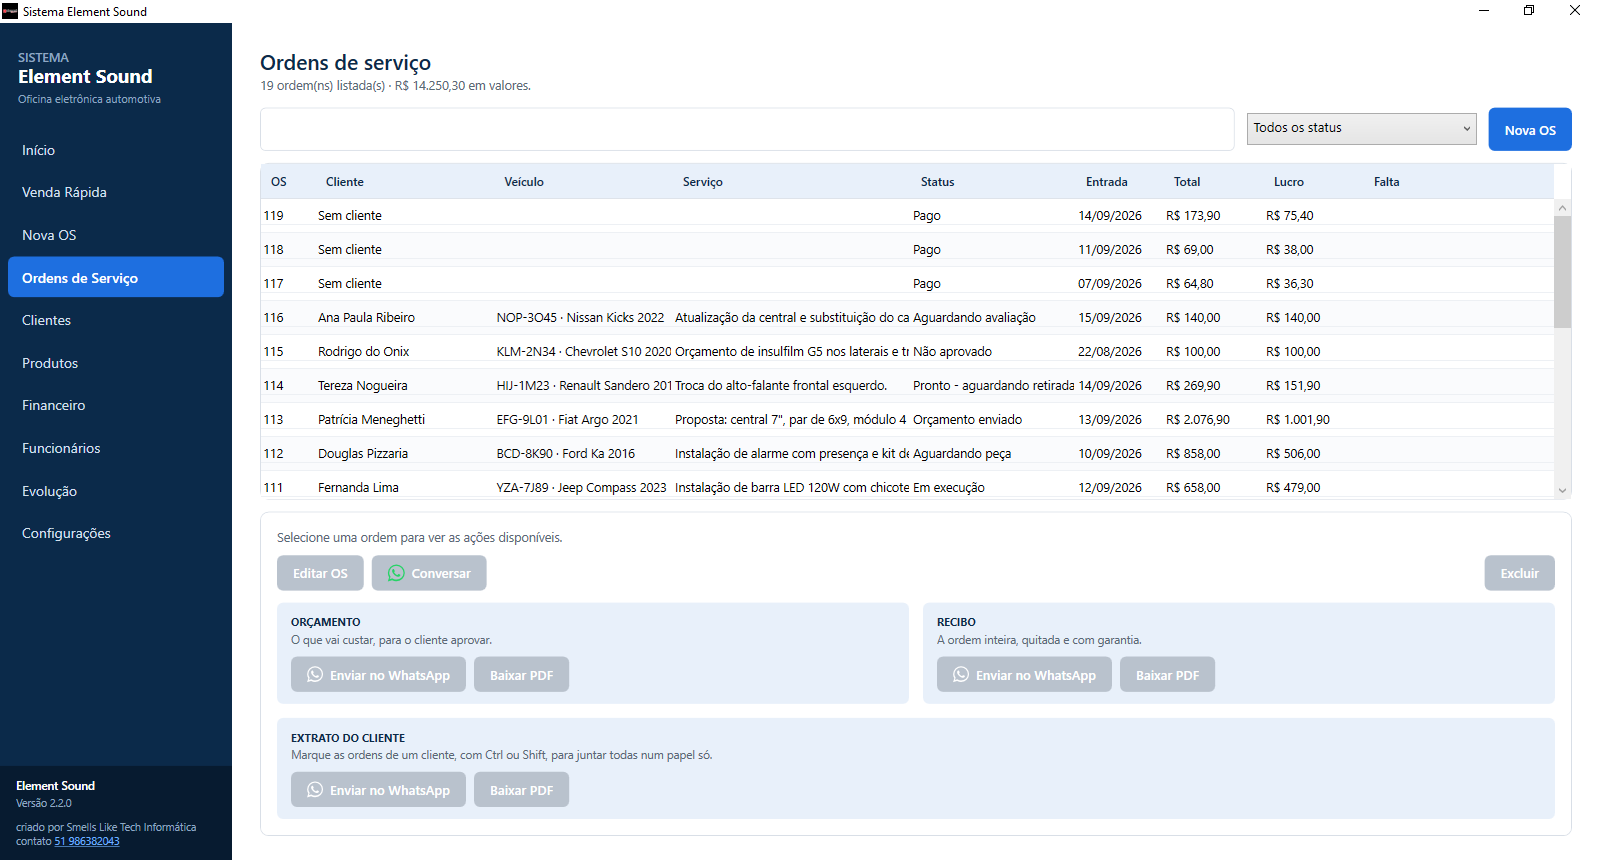
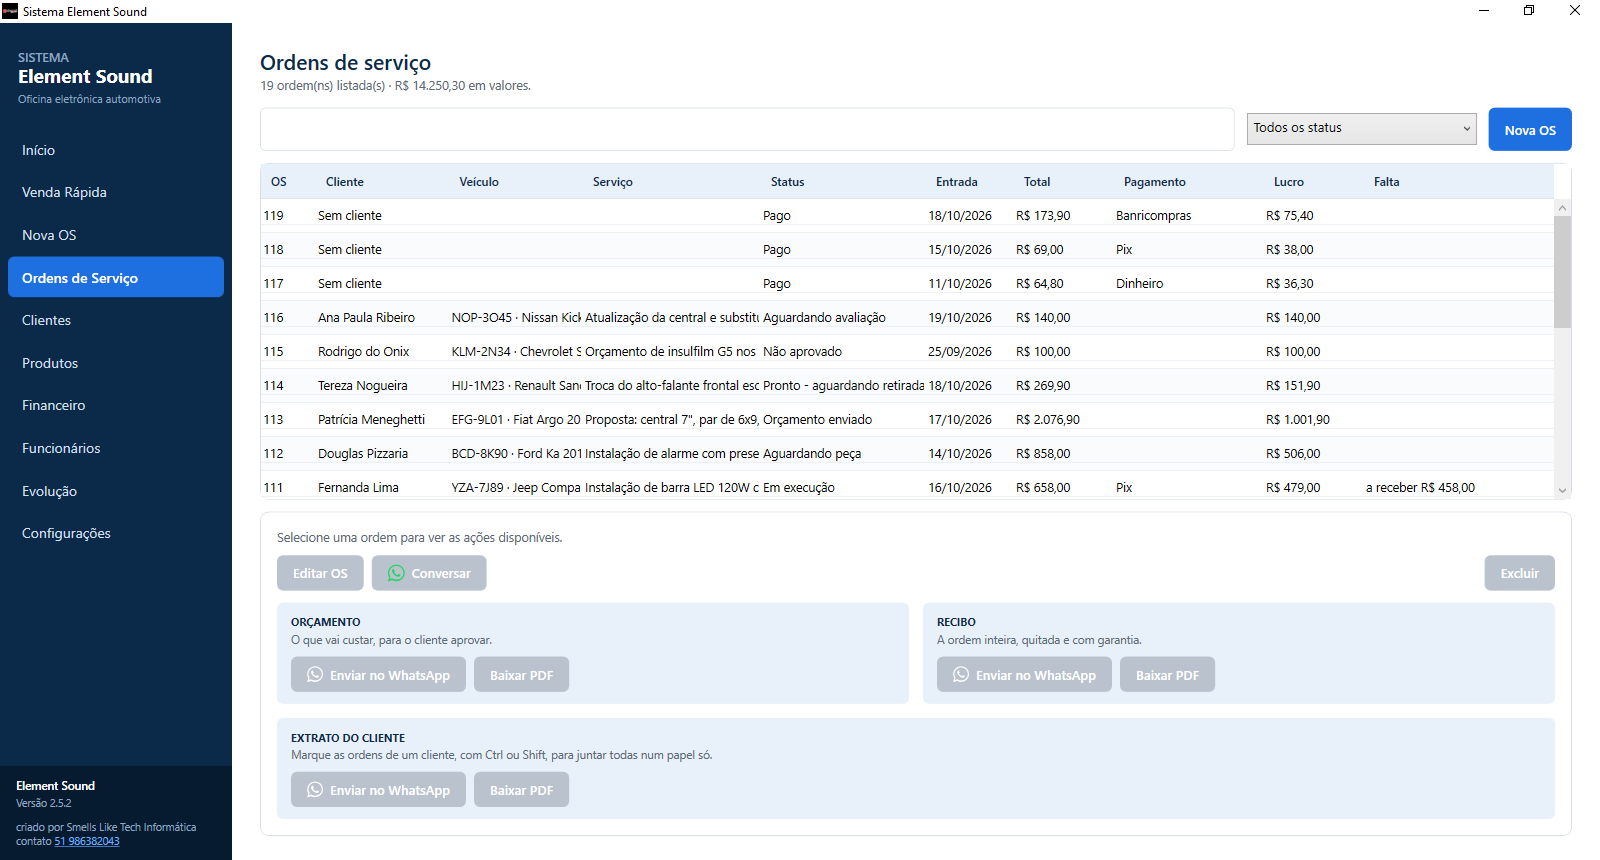
Mostra a parceria com a Vero e o pagamento em partes, com telas novas
A Smells Like Tech Informática é parceira da Vero, a maquininha da Banrisul
Pagamentos, e a integração do Sistema Element Sound pelo Vero Cliente PDV foi
homologada. A página ganha o selo da parceria no topo e uma seção própria: as
formas de pagamento aceitas, o que acontece na cobrança, no comprovante e no
estorno, e a janela de cobrança.

Entram também o pagamento em partes — o sinal, o saldo, a OS que vira paga
sozinha —, o financeiro contado no dia em que o dinheiro entrou, a tela da
maquininha em Configurações e duas decisões novas de projeto: o pagamento que
sobrevive ao programa fechar, e só contar o que a maquininha confirmou.

Todas as telas foram capturadas de novo, da versão 2.5.2, com a oficina de
demonstração: nomes, placas, telefones, CNPJ e comprovantes são fictícios.

diff --git a/index.html b/index.html
@@ -4,12 +4,12 @@
 <meta charset="utf-8">
 <meta name="viewport" content="width=device-width,initial-scale=1">
 <title>Sistema Element Sound — gestão para oficina de eletrônica automotiva</title>
-<meta name="description" content="Aplicativo Windows para oficina de som, alarme e elétrica automotiva: ordens de serviço, catálogo com leitor de código de barras, orçamento e recibo em PDF, estoque, financeiro e sincronização entre computadores.">
+<meta name="description" content="Aplicativo Windows para oficina de som, alarme e elétrica automotiva: ordens de serviço, cobrança integrada à maquininha da Vero (Banrisul Pagamentos), pagamento em partes, catálogo com leitor de código de barras, orçamento e recibo em PDF, estoque, financeiro e sincronização entre computadores.">
 <meta name="author" content="Smells Like Tech Informática">
 
 <meta property="og:type" content="website">
 <meta property="og:title" content="Sistema Element Sound">
-<meta property="og:description" content="Aplicativo Windows para oficina de eletrônica automotiva. C#/.NET 10 com WPF.">
+<meta property="og:description" content="Aplicativo Windows para oficina de eletrônica automotiva, com cobrança integrada à maquininha da Vero. C#/.NET 10 com WPF.">
 <meta property="og:locale" content="pt_BR">
 
 <link rel="preconnect" href="https://fonts.googleapis.com">
@@ -139,6 +139,29 @@ section{padding:76px 0}
 }
 .tela .vazio{background:var(--surface-2);color:var(--muted)}
 
+/* ---------- parceria ---------- */
+.selo-parceria{
+  display:inline-flex;align-items:center;gap:10px;margin-top:22px;
+  padding:9px 14px;border:1px solid rgba(245,166,91,.45);border-radius:999px;
+  background:rgba(224,122,31,.12);color:#FBD9B5;font-size:.86rem;font-weight:600;
+}
+.selo-parceria .ponto{width:8px;height:8px;border-radius:50%;background:var(--laranja-suave)}
+.vero{background:var(--surface);border-top:1px solid var(--hairline);border-bottom:1px solid var(--hairline)}
+.vero-grid{display:grid;grid-template-columns:minmax(0,1fr) minmax(0,.82fr);gap:40px;align-items:start}
+@media (max-width:860px){.vero-grid{grid-template-columns:1fr}}
+.vero-pontos{list-style:none;margin:22px 0 0;padding:0;display:flex;flex-direction:column;gap:14px}
+.vero-pontos li{display:grid;grid-template-columns:22px 1fr;gap:10px;color:var(--ink-soft);font-size:.96rem}
+.vero-pontos li::before{content:"";width:10px;height:10px;margin-top:8px;border-radius:2px;background:var(--laranja)}
+.vero-pontos strong{color:var(--marinho)}
+.formas{display:flex;flex-wrap:wrap;gap:8px;margin-top:20px}
+.formas span{
+  font-size:.82rem;font-weight:600;color:var(--marinho);background:var(--surface-2);
+  border:1px solid var(--hairline);border-radius:6px;padding:5px 10px;
+}
+.vero figure{margin:0;max-width:440px;justify-self:center}
+.vero figure img{border-radius:10px;border:1px solid var(--hairline);box-shadow:var(--shadow);width:100%}
+.vero figcaption{font-size:.84rem;color:var(--muted);margin-top:10px;text-align:center}
+
 /* ---------- decisões ---------- */
 .decisoes{background:var(--surface);border-top:1px solid var(--hairline);border-bottom:1px solid var(--hairline)}
 .lista-decisoes{display:flex;flex-direction:column;gap:2px;background:var(--hairline);
@@ -193,10 +216,12 @@ footer a{color:var(--muted)}
   <div class="wrap">
     <p class="eyebrow">Software para oficina · Windows</p>
     <h1>Sistema Element Sound</h1>
-    <p class="sub">A oficina de som, alarme, insulfilm e elétrica automotiva inteira num programa só: da placa que entra na bancada ao recibo que sai pelo WhatsApp.</p>
+    <p class="sub">A oficina de som, alarme, insulfilm e elétrica automotiva inteira num programa só: da placa que entra na bancada à cobrança na maquininha e ao recibo que sai pelo WhatsApp.</p>
+    <p class="selo-parceria"><span class="ponto" aria-hidden="true"></span>Smells Like Tech Informática é parceira da Vero · Banrisul Pagamentos — integração homologada</p>
 
     <div class="hero-acoes">
       <a class="btn btn--principal" href="#contato">Quero para minha oficina</a>
+      <a class="btn btn--fantasma" href="#vero">A integração com a Vero</a>
       <a class="btn btn--fantasma" href="#telas">Ver as telas</a>
     </div>
     <p class="selo">Desenvolvido pela Smells Like Tech Informática · Porto Alegre</p>
@@ -237,15 +262,59 @@ footer a{color:var(--muted)}
         <p>A peça sai quando o atendimento é concluído e volta se ele for reaberto, alterado ou excluído. O sistema lembra o que já baixou, então nada é descontado duas vezes.</p>
       </div>
       <div class="card">
+        <div class="ico">▣</div>
+        <h3>Cobrança na maquininha</h3>
+        <p>O valor vai do sistema direto para a maquininha da Vero, e a venda só fecha quando o pagamento é aprovado. Banricompras, débito, crédito, Pix e Vero Wallet, com o comprovante guardado na OS.</p>
+      </div>
+      <div class="card">
+        <div class="ico">½</div>
+        <h3>Pagamento em partes</h3>
+        <p>O sinal na entrada do carro, o resto na retirada, um Pix por fora: cada pagamento fica registrado, a OS mostra quanto falta e vira paga sozinha quando o saldo zera.</p>
+      </div>
+      <div class="card">
         <div class="ico">R$</div>
         <h3>Financeiro e evolução</h3>
-        <p>Entradas, custos e gastos no mesmo lugar, com o lucro do mês já descontando peças e despesas. E o desempenho mês a mês, para ver se a oficina está crescendo.</p>
+        <p>O dinheiro contado no dia em que entrou, o que ainda está para receber, e o lucro já descontando peças e despesas. E o desempenho mês a mês, para ver se a oficina está crescendo.</p>
       </div>
       <div class="card">
         <div class="ico">☁</div>
         <h3>Dois computadores, os mesmos dados</h3>
         <p>O balcão e a bancada veem as mesmas ordens. Funciona sem internet, e o que foi feito offline sobe quando a conexão volta.</p>
       </div>
+    </div>
+  </div>
+</section>
+
+<section id="vero" class="vero">
+  <div class="wrap">
+    <div class="vero-grid">
+      <div>
+        <div class="sec-cabeca" style="margin-bottom:0">
+          <p class="eyebrow">Parceria Vero · Banrisul Pagamentos</p>
+          <h2>A maquininha cobra direto do sistema</h2>
+          <p>A Smells Like Tech Informática é parceira da Vero, a maquininha do Banrisul, e a integração do Sistema Element Sound foi homologada por ela. O balconista escolhe a forma de pagamento na tela, a cobrança abre sozinha na maquininha, e o programa fica sabendo do resultado — sem digitar valor duas vezes e sem lançar a venda na mão depois.</p>
+        </div>
+
+        <div class="formas" aria-label="Formas de pagamento aceitas">
+          <span>Banricompras à vista</span><span>Banricompras parcelado</span>
+          <span>Banricompras pré-datado</span><span>Crédito 1 Minuto</span>
+          <span>Débito</span><span>Crédito à vista</span><span>Crédito parcelado</span>
+          <span>Pix</span><span>Vero Wallet</span><span>Voucher</span>
+        </div>
+
+        <ul class="vero-pontos">
+          <li><span><strong>A venda só fecha quando a maquininha aprova.</strong> Nada sai do estoque e nenhum dinheiro é contado antes disso.</span></li>
+          <li><span><strong>O comprovante fica na OS.</strong> NSU, bandeira, autorização e a via do cliente, para conferir com o extrato e estornar depois.</span></li>
+          <li><span><strong>Estorno pela própria OS,</strong> de um pagamento só — devolver o sinal não desfaz o pagamento do saldo.</span></li>
+          <li><span><strong>Programa fechado no meio da cobrança?</strong> Ao abrir, ele pergunta à Vero o que aconteceu e oferece lançar o pagamento na OS certa.</span></li>
+          <li><span><strong>Pronto para usar.</strong> A integração já vem ativa no programa; a oficina informa só o CNPJ dela e o aparelho.</span></li>
+        </ul>
+      </div>
+
+      <figure>
+        <img src="img/cobrar-vero.png" alt="Janela Cobrar com a Vero, com as formas de pagamento agrupadas em Banricompras, cartão e outras, e o Banricompras parcelado em 2 vezes escolhido">
+        <figcaption>A janela de cobrança: escolhida a forma, a cobrança abre sozinha na maquininha.</figcaption>
+      </figure>
     </div>
   </div>
 </section>
@@ -263,7 +332,7 @@ footer a{color:var(--muted)}
         <div class="tela-texto">
           <p class="eyebrow">Ordens de serviço</p>
           <h3>Tudo o que está na oficina, numa lista</h3>
-          <p>Busca por placa, cliente, veículo, número ou serviço. A coluna <em>Falta</em> mostra o que está pendente em cada atendimento — cliente, placa, descrição ou valor — para nenhuma ordem pela metade se esconder entre as prontas.</p>
+          <p>Busca por placa, cliente, veículo, número ou serviço. A coluna <em>Falta</em> mostra o que está pendente em cada atendimento — cliente, placa, descrição, valor ou o saldo a receber — para nenhuma ordem pela metade se esconder entre as prontas.</p>
           <p>Marcando várias do mesmo cliente com Ctrl, sai o extrato de todas num papel só.</p>
         </div>
         <figure>
@@ -285,10 +354,22 @@ footer a{color:var(--muted)}
 
       <div class="tela">
         <div class="tela-texto">
+          <p class="eyebrow">Pagamentos</p>
+          <h3>Recebe em partes, e sabe quanto falta</h3>
+          <p>Cada pagamento da OS é uma linha, com data, forma e valor — à mão para dinheiro e Pix direto, ou cobrado na maquininha com o comprovante junto. O valor a receber já vem com o que falta; para receber só uma parte, é só trocar.</p>
+          <p>Quitada, a OS vira <em>Paga</em> sozinha. Se um pagamento é estornado depois, ela vai para <em>Pagamento pendente</em> e volta a aparecer como a receber.</p>
+        </div>
+        <figure>
+          <img src="img/pagamentos.png" alt="Editor de ordem de serviço com o quadro de pagamentos: um Pix na entrada e um Banricompras parcelado em 2 vezes, e o saldo a receber">
+        </figure>
+      </div>
+
+      <div class="tela">
+        <div class="tela-texto">
           <p class="eyebrow">Venda rápida</p>
           <h3>O balcão que não precisa de ordem de serviço</h3>
           <p>Vender um fusível, um par de alto-falantes ou um controle de alarme não exige carro na bancada nem defeito relatado. Leitor, lista de itens, total e um botão.</p>
-          <p>Por dentro a venda vira um atendimento já pago, então cai sozinha no financeiro, baixa o estoque e pode emitir recibo.</p>
+          <p>O botão <em>Cobrar com a Vero</em> manda o total para a maquininha. Por dentro a venda vira um atendimento já pago, então cai sozinha no financeiro, baixa o estoque e pode emitir recibo.</p>
         </div>
         <figure>
           <img src="img/venda-rapida.png" alt="Tela de venda rápida de balcão, com leitor de código de barras, itens lançados e total">
@@ -323,10 +404,11 @@ footer a{color:var(--muted)}
         <div class="tela-texto">
           <p class="eyebrow">Financeiro</p>
           <h3>O dinheiro que entra e o que sai</h3>
-          <p>Gastos operacionais por categoria, indicadores do período e o lucro já descontando peças e despesas. O custo da oficina nunca aparece nos papéis entregues ao cliente — é informação de gestão, e fica aqui.</p>
+          <p>O recebido é contado no dia em que o dinheiro entrou — o sinal de hoje e o saldo da semana que vem caem cada um no seu dia —, ao lado do que as ordens ainda devem e do quanto entrou por forma de pagamento, com o parcelado em 2x e em 3x separados.</p>
+          <p>Gastos por categoria e o lucro já descontando peças e despesas. O custo da oficina nunca aparece nos papéis entregues ao cliente.</p>
         </div>
         <figure>
-          <img src="img/financeiro.png" alt="Tela financeira com indicadores do período e lançamento de gastos por categoria">
+          <img src="img/financeiro.png" alt="Tela financeira com recebido, a receber, custo de peças, gastos e lucro do período, e o recebido por forma de pagamento">
         </figure>
       </div>
 
@@ -339,6 +421,17 @@ footer a{color:var(--muted)}
         </div>
         <figure>
           <img src="img/funcionarios.png" alt="Tela de funcionários com o fechamento do mês e os lançamentos da folha">
+        </figure>
+      </div>
+
+      <div class="tela">
+        <div class="tela-texto">
+          <p class="eyebrow">Configurações</p>
+          <h3>A maquininha, em dois campos</h3>
+          <p>A integração com a Vero já vem ativa no programa: a oficina informa o CNPJ dela, o mesmo da maquininha, e o token do aparelho, que o app da Vero mostra ao abrir. Um botão vincula, outro testa, e o diário do que foi mandado à Vero fica à mão para o suporte.</p>
+        </div>
+        <figure>
+          <img src="img/configuracoes-vero.png" alt="Tela de configurações com a seção Maquininha: integração da Vero ativa, CNPJ da oficina e token do aparelho">
         </figure>
       </div>
 
@@ -396,6 +489,16 @@ footer a{color:var(--muted)}
         <h3>Números de atendimento que não colidem</h3>
         <p>Cada computador reserva uma faixa de números antes de precisar dela, o que permite abrir atendimento offline nos dois sem os dois emitirem a mesma OS. Se ainda assim coincidirem, quem criou depois é renumerado — a ordem mais antiga tem mais chance de já ter virado papel na mão do cliente.</p>
       </div>
+      <div class="decisao">
+        <span class="marca">07</span>
+        <h3>O pagamento sobrevive ao programa fechar</h3>
+        <p>A maquininha não sabe que o computador caiu e conclui o pagamento assim mesmo. Por isso a cobrança é anotada no disco antes de sair, e ao abrir de novo o programa pergunta à Vero o que aconteceu — senão o dinheiro entraria sem venda, e a diferença só apareceria no fechamento do mês.</p>
+      </div>
+      <div class="decisao">
+        <span class="marca">08</span>
+        <h3>Só o que a maquininha confirmou conta</h3>
+        <p>A venda fecha depois da aprovação, nunca antes; o estorno só tira o dinheiro do financeiro depois de a maquininha confirmar. Quando a resposta deixa dúvida, o programa pergunta pelo comprovante impresso em vez de adivinhar — e trava o botão, para ninguém devolver duas vezes.</p>
+      </div>
     </div>
   </div>
 </section>
@@ -430,6 +533,11 @@ footer a{color:var(--muted)}
         <span class="obs">Sincronização incremental nos dois sentidos</span>
       </div>
       <div class="tech-item">
+        <span class="rot">Pagamentos</span>
+        <span class="val">Vero Cliente PDV</span>
+        <span class="obs">Integração homologada pela Vero · Banrisul Pagamentos</span>
+      </div>
+      <div class="tech-item">
         <span class="rot">Documentos</span>
         <span class="val">MigraDoc · PDFsharp</span>
         <span class="obs">Layout medido e remontado para caber numa folha</span>
@@ -442,7 +550,7 @@ footer a{color:var(--muted)}
       <div class="tech-item">
         <span class="rot">Testes</span>
         <span class="val">xUnit</span>
-        <span class="obs">Mais de 240 testes automatizados</span>
+        <span class="obs">Mais de 370 testes automatizados</span>
       </div>
       <div class="tech-item">
         <span class="rot">Distribuição</span>

diff --git a/README.md b/README.md
@@ -1,16 +1,27 @@
 # Sistema Element Sound — página de apresentação
 
 Página pública do **Sistema Element Sound**, aplicativo Windows de gestão para
-oficina de eletrônica automotiva: ordens de serviço, catálogo com leitor de
-código de barras, orçamento e recibo em PDF, estoque, financeiro, folha de
-pagamento e sincronização entre computadores.
+oficina de eletrônica automotiva: ordens de serviço, **cobrança integrada à
+maquininha da Vero**, pagamento em partes, catálogo com leitor de código de
+barras, orçamento e recibo em PDF, estoque, financeiro, folha de pagamento e
+sincronização entre computadores.
 
 **https://mikerock12.github.io/element-sound/**
+
+## Parceria Vero · Banrisul Pagamentos
+
+A Smells Like Tech Informática é parceira da **Vero**, a maquininha da Banrisul
+Pagamentos, e a integração do sistema pelo **Vero Cliente PDV** foi homologada por
+ela. O valor vai do sistema direto para a maquininha — Banricompras à vista,
+parcelado e pré-datado, Crédito 1 Minuto, débito, crédito à vista e parcelado,
+Pix, Vero Wallet e voucher —, a venda só fecha quando o pagamento é aprovado, e o
+comprovante fica guardado na ordem de serviço.
 
 ## O que este repositório contém
 
 Apenas a página de apresentação do produto — um `index.html` e as imagens das
-telas. Nada mais.
+telas, feitas com uma oficina de demonstração: **todos os nomes, placas,
+telefones, CNPJs e comprovantes nas imagens são fictícios.**
 
 **O código-fonte do sistema não está aqui e não é público.** O Sistema Element
 Sound é software proprietário, licenciado e entregue instalado ao cliente, com
@@ -18,8 +29,8 @@ suporte. Este repositório existe para hospedar a página, nada além disso.
 
 ## Tecnologia do produto
 
-C# · .NET 10 · WPF · SQLite · Firebase Authentication e Cloud Firestore ·
-MigraDoc e PDFsharp · xUnit · Inno Setup.
+C# · .NET 10 · WPF · SQLite · Vero Cliente PDV · Firebase Authentication e Cloud
+Firestore · MigraDoc e PDFsharp · xUnit · Inno Setup.
 
 ## Contato
 
